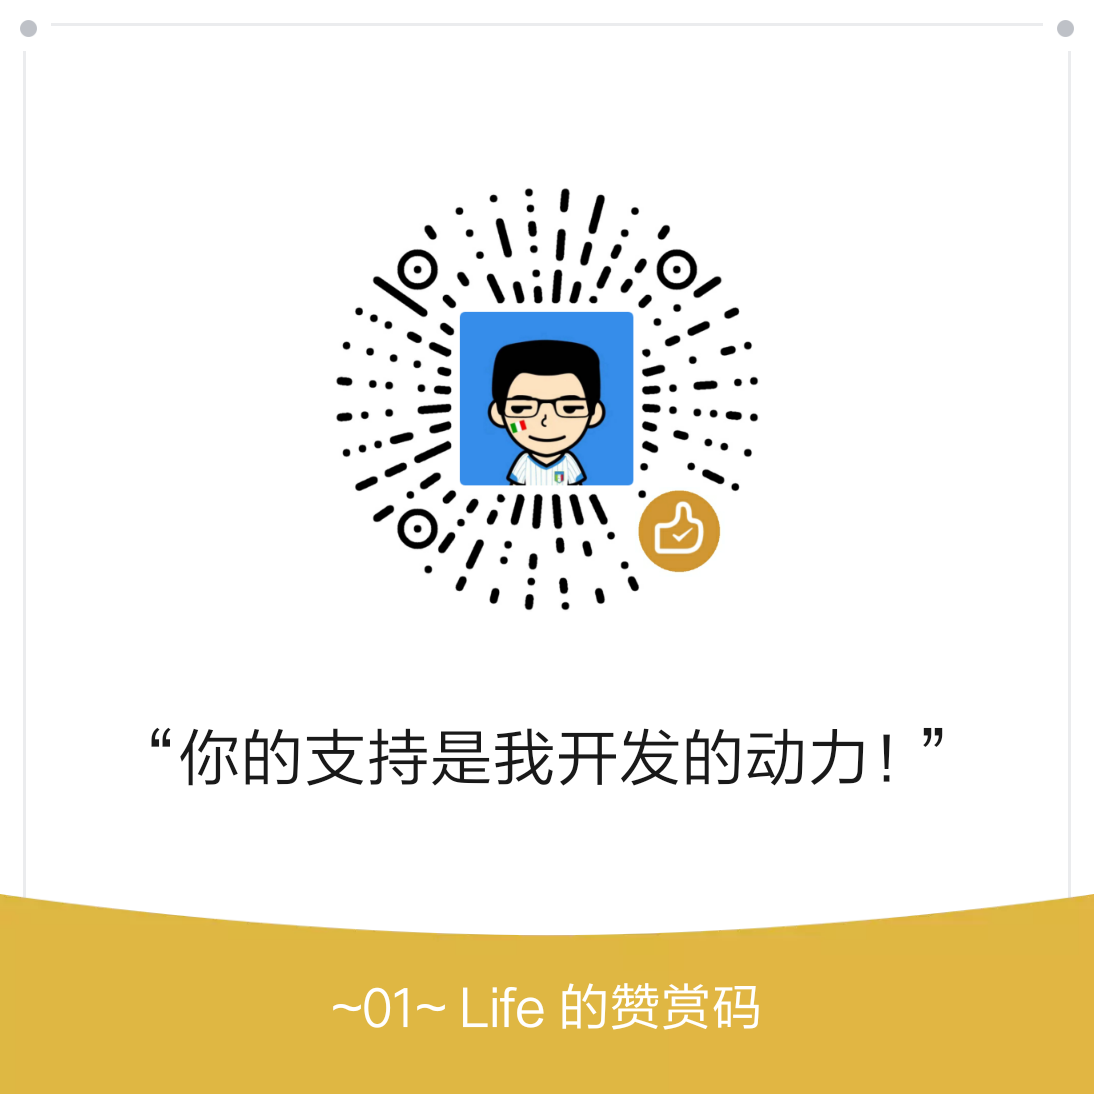
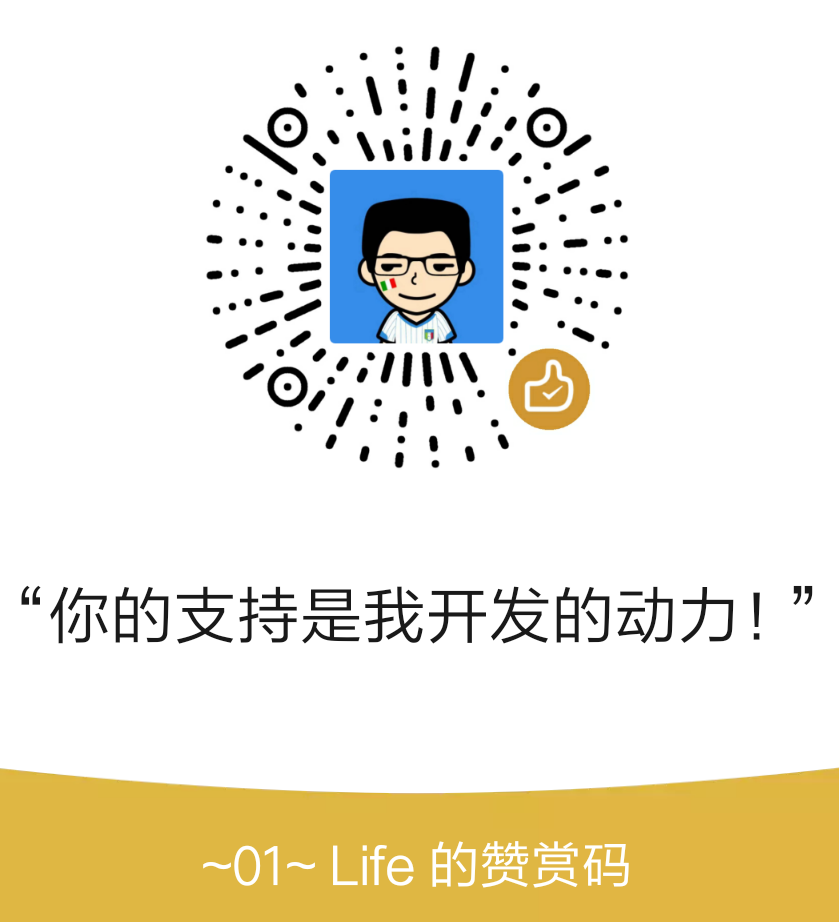
修改

diff --git a/help.html b/help.html
@@ -73,7 +73,7 @@
           <p></p>
           <p><strong>BUG及建议请进</strong></p>
 					<p>QQ群： <strong>719548664</strong></p>
-          <p> <img style="width: 250px;" src="assets/img/help/qq_qrcode.jpg"/> <img style="width: 250px;" src="assets/img/help/wechat_scan_code.png"/> </p>
+          <p> <img style="width: 250px;" src="assets/img/help/qq_qrcode.jpg"/> <img style="width: 280px;" src="assets/img/help/wechat_scan_code.png"/> </p>
 					
 				</div>
 			</div><!-- /row -->
